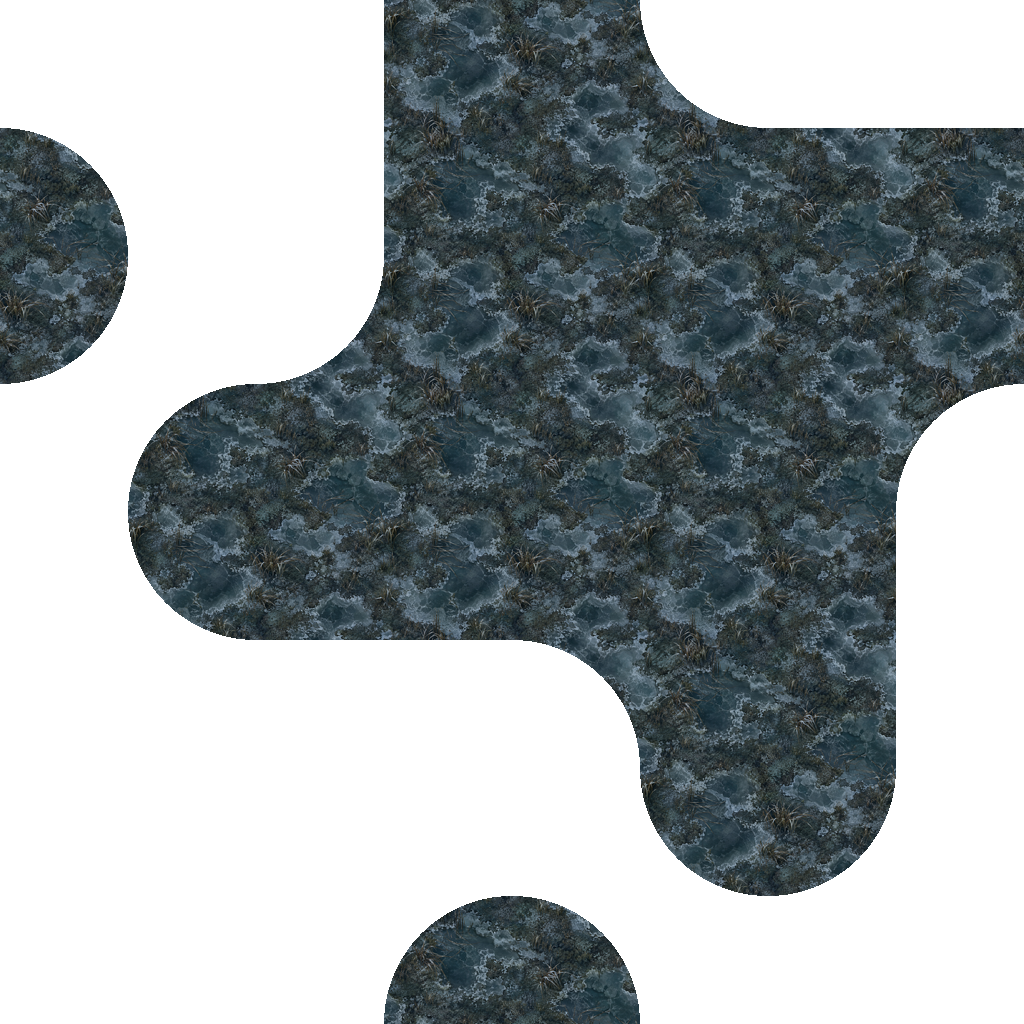
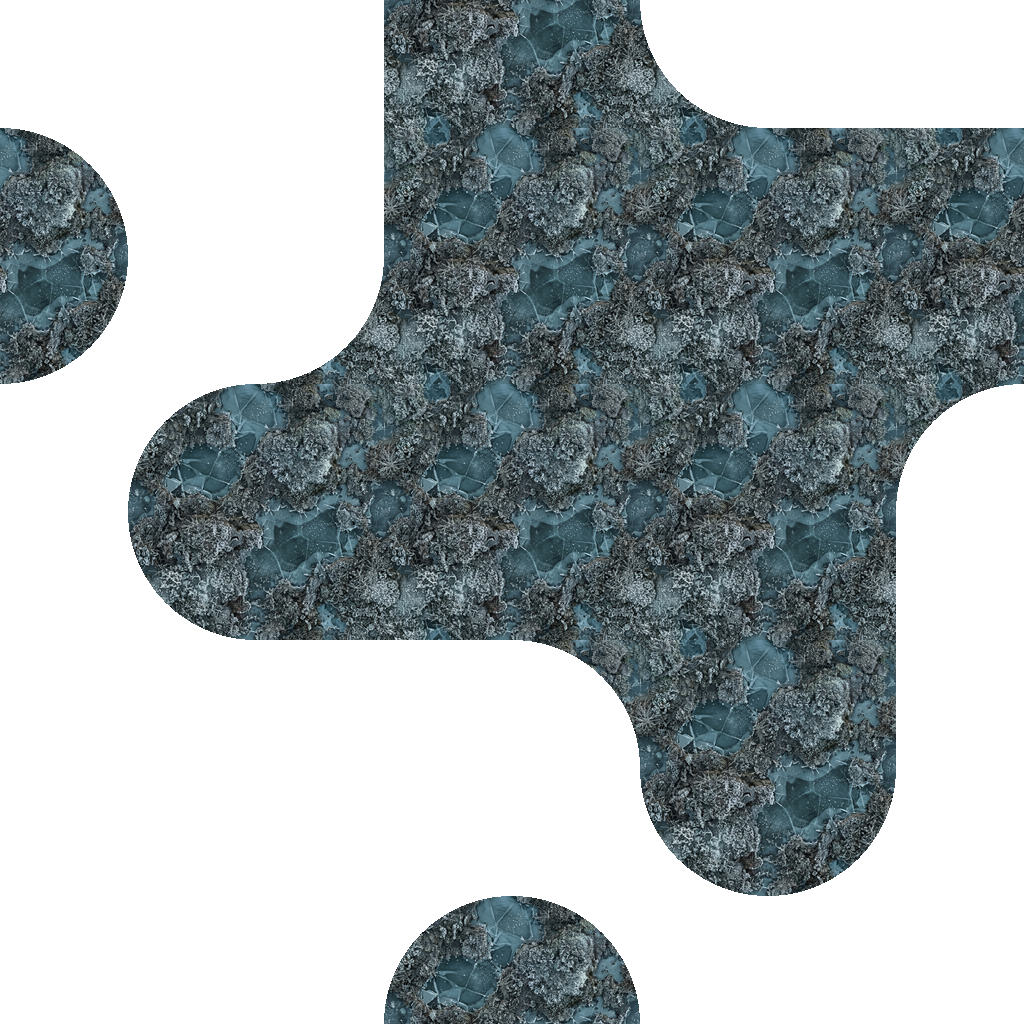
feat(client): 生成高清擬真自然地塊圖片並完整備份原有地塊

diff --git a/assets/backup/tiles-original-v2/README.md b/assets/backup/tiles-original-v2/README.md
@@ -1,0 +1,5 @@
+# 原始高清地塊備份（v2）
+
+備份時間：2026-09-11
+說明：此目錄保存生成擬真地塊前的 29 張原始 1024×1024 lossless WebP dual-grid 圖集及 manifest 快照。
+如需回滾，可直接將此目錄檔案複製回 packages/client/public/assets/runtime-image-packs/default/tiles/。
